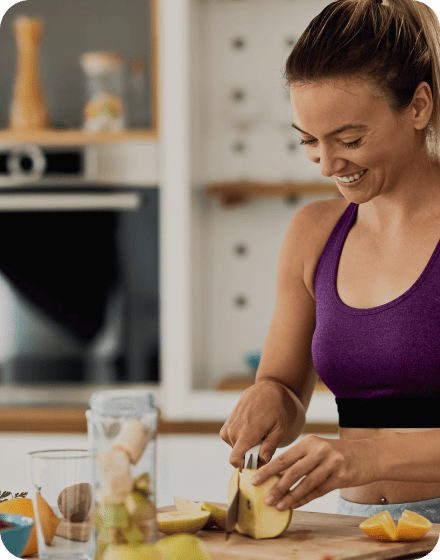
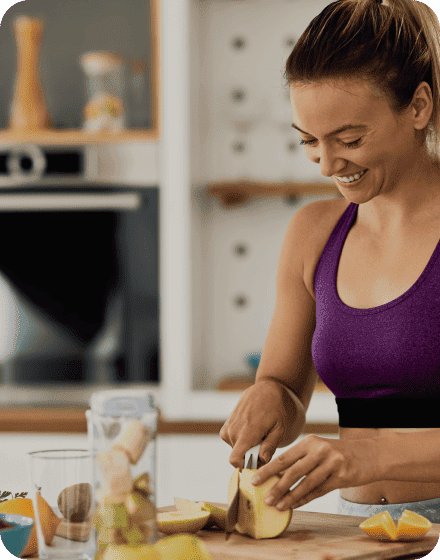
added new smaller imgs

diff --git a/src/css/how-it-works.css b/src/css/how-it-works.css
@@ -1,6 +1,6 @@
 /*секція*/
 .how-it-works {
-    background: linear-gradient(to bottom, #7a3145 39%, #576f35 0%);
+  background: linear-gradient(to bottom, #7a3145 39%, #576f35 0%);
 }
 @media only screen and (min-width: 375px) {
   .how-it-works {
@@ -9,13 +9,13 @@
 }
 @media only screen and (min-width: 768px) {
   .how-it-works {
-     background: linear-gradient(to bottom, #7a3145 54%, #576f35 0%);
-    }
+    background: linear-gradient(to bottom, #7a3145 54%, #576f35 0%);
+  }
 }
 @media only screen and (min-width: 1280px) {
   .how-it-works {
-      background: linear-gradient(to right, #7A3145 50%, #576f35 50%);
-    }
+    background: linear-gradient(to right, #7a3145 50%, #576f35 50%);
+  }
 }
 .section-how {
   display: flex;
@@ -35,15 +35,14 @@
 .works-img {
   display: flex;
   padding: 40px 0 40px;
-
 }
 
 .works-img img {
   border-radius: 30px;
 }
 .works-div-img {
-    max-width: 335px;
-    max-height: 452px;
+  max-width: 335px;
+  max-height: 452px;
 }
 @media only screen and (min-width: 768px) {
   .works-div-img {
@@ -51,16 +50,17 @@
     max-height: 640px;
   }
 }
-     @media only screen and (min-width: 1280px) {
-      .works-div-img {
-          max-width: 440px;
-          max-height: 560px;
-        }
-     }
+@media only screen and (min-width: 1280px) {
+  .works-div-img {
+    max-width: 440px;
+    max-height: 560px;
+  }
+}
 
 .img-size {
   border-radius: 30px;
   object-fit: cover;
+
   max-height: 452px;
 }
 
@@ -159,7 +159,6 @@
   font-size: 14px;
   line-height: 143%;
   color: #858585;
-
 }
 
 /* адаптація - планшет */
@@ -168,7 +167,6 @@
   .works-img {
     padding: 100px 32px;
   }
-   
 
   .works-content {
     padding: 100px 132px;
@@ -195,19 +193,16 @@
   }
 }
 
-
 /* адаптація - комп'ютер */
 @media only screen and (min-width: 1280px) {
-
   .works-img {
     padding: 100px 100px 100px 0;
   }
   .works-content {
     padding: 100px 0 100px 100px;
-    }
+  }
 
   .bascket {
     margin-bottom: 104px;
   }
-
 }

diff --git a/src/partials/your-order.html b/src/partials/your-order.html
@@ -60,26 +60,26 @@
               <source
                 media="(min-width: 1280px)"
                 srcset="
-                  img/your-order/pic_desk@1x.png 1x,
-                  img/your-order/pic_desk@2x.png 2x
+                  img/your-order/img-order-desk@2x.png 2x,
+                  img/your-order/img-order-desk.png    1x
                 "
               />
               <source
                 media="(min-width: 768px) and (max-width: 1279px)"
                 srcset="
-                  img/your-order/pic_tab@1x.png 1x,
-                  img/your-order/pic_tab@2x.png 2x
+                  img/your-order/img-order-tab@2x.png 2x,
+                  img/your-order/img-order-tab.png    1x
                 "
               />
               <source
                 media="(max-width: 767px)"
                 srcset="
-                  img/your-order/pic_mob@1x.png 1x,
-                  img/your-order/pic_mob@2x.png 2x
+                  img/your-order/img-order-mob@2x.png 2x,
+                  img/your-order/img-order-mob.png    1x
                 "
               />
               <img
-                src="img/your-order/pic_mob@1x.png"
+                src="img/your-order/img-order-mob@1x.png"
                 alt="Woman makes fresh of lemon"
                 width="536"
                 height="352"

diff --git a/src/partials/how-it-works.html b/src/partials/how-it-works.html
@@ -14,7 +14,7 @@
           <source
             srcset="
               img/how-it-works/image-how-tab2x.png 2x,
-              img/how-it-works/image-how-tab.png   1x
+              img/how-it-works/image-how-tabk.png  1x
             "
             media="(min-width: 768px) and (max-width: 1279px)"
           />
